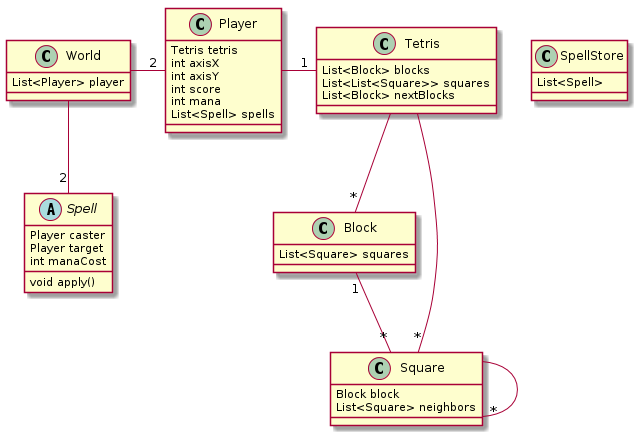
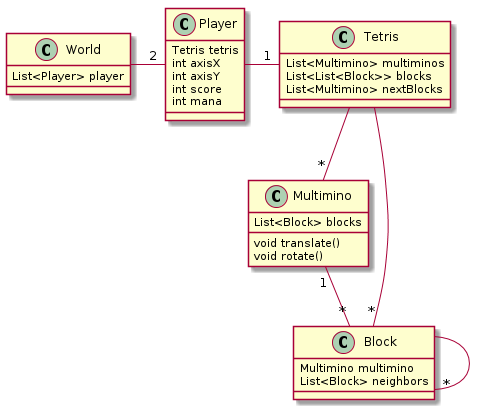
Renommage de Square en Block et de Block en Multimino, parcequ'on confondu déjà tout

diff --git a/src/games/tetrisBattle/Tetris.java b/src/games/tetrisBattle/Tetris.java
@@ -4,9 +4,9 @@ import java.util.List;
 
 public class Tetris {
 	
-	private List<Block> blocks;
-	private List<List<Square>> squares;
-	private List<Block> nextBlocks;
+	private List<Multimino> multiminos;
+	private List<List<Block>> squares;
+	private List<Multimino> nextMultiminos;
 	
 	public Tetris() {
 		

diff --git a/src/games/tetrisBattle/Block.java b/src/games/tetrisBattle/Block.java
@@ -4,7 +4,8 @@ import java.util.List;
 
 public class Block {
 	
-	private List<Square> squares;
+	private Multimino multimino;
+	private List<Block> neighbors;
 	
 	public Block() {
 		

diff --git a/src/games/tetrisBattle/Multimino.java b/src/games/tetrisBattle/Multimino.java
@@ -1,0 +1,13 @@
+package games.tetrisBattle;
+
+import java.util.List;
+
+public class Multimino {
+	
+	private List<Block> blocks;
+	
+	public Multimino() {
+		
+	}
+
+}
